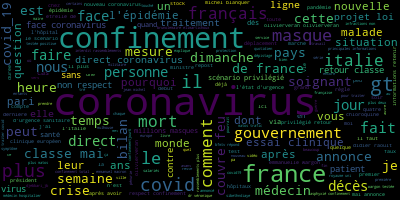
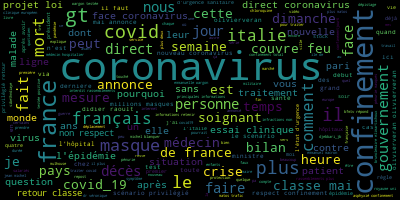
mots du jour

diff --git a/Wordcloud_actu_france_demo.py b/Wordcloud_actu_france_demo.py
@@ -141,10 +141,110 @@ plt.axis("off")
 #plt.show()
 
 # Enfin on sauvagarde l'image Wordcloud :
-wordcloud.to_file('/home/venus/Wordcloud twitter/mots_du_jour.png')
 
-wordcloud.to_file('/home/venus/Git_repo/mots_du_jour.png')
+wordcloud.to_file('/home/venus/Git_repo/GIT/mots_du_jour.png')
 
+#------------------------------------------
+#### INFOS MONDIALES
+import tweepy
+
+
+
+result2 = []
+liste = ["@ItaliaNEWS", "@SABreakingNews", "@Cameroon_Com", "@MoNewsNet", "@haaretzcom", "@STcom", "@XHNews", "@TaiwanNews886", "@VietnamNewsVNS", "@cambodge_info", "@notesfrompoland", "@nordstjernan", "@OslOsethu", "@KyivPost", "@TheCRNews", "@malaysiakini", "@theBAtimes", "@TheLocalGermany", "@DPRK_News", "@9NewsAUS", "@AIT_News", "@newsphilippines", "@CBCNews", "@FranceNews24", "@newsspain", "@mexicond", "@MoscowTimes", "@jakpost", "@IndiaToday", "@HDNER", "@AJEnglish", "@BrazilianReport", "@arabnews", "@BBCNews", "@ReutersUK", "@The_Japan_News", "@USATODAY"]
+for ele in liste:
+    result2.append(api.user_timeline(ele, count = 100))
+
+# Affichage des résultats :
+#for i in result:
+#    for tweet in i:
+#        print(tweet.text)
+    
+
+# Concaténation des résultats de recherche :
+result3=result2#+result2
+
+
+#### Nettoyage des données :
+
+import tweepy as tw
+import warnings
+warnings.filterwarnings("ignore")
+
+# On définie une fonction de nettoyage des données (retrait des url et des caractéres spéciaux) :
+
+def remove_url(txt):
+    """Remplace les url trouvée par le caractère vide " "
+    Parametre
+    ----------
+    txt : string
+        la variable string que l'on soutaite remplacer
+    Sortie
+    -------
+    Le fichier nettoyé des url
+    """
+    return " ".join(re.sub('http\w+:\/\/\S+', '', txt).split())
+
+# On retire les caractères spéciaux et les url de result3 :
+
+tweets_sans_urls = [remove_url(tweet.text)  for i in result3 for tweet in i]
+
+# On crée la liste des mots :
+
+mots_dans_tweets = [tweet.lower().split() for tweet in tweets_sans_urls]
+
+
+# Retrait des mots non pertinents avec nltk :
+
+# Téléchargement NLTK
+#nltk.download('stopwords')
+stop_words = set(stopwords.words('english'))
+
+# Retrait des mots non pertinents :
+liste_stop_words = list(stop_words)
+
+tweet_sans_sw = [[mots for mots in mots_tweet if not mots in liste_stop_words]
+                 for mots_tweet in mots_dans_tweets]
+
+
+
+
+a_retirer = ["germany", "brazil", "russia", "yia", "ukraine", "spain", "vietnam", "day", "news", "italia", "china", "italy", "world", "us", "de"]#+ liste_stop_words
+
+# On réutilise une double listes pour retirer les mots non pertinents:
+
+tweet_avec_mots_bannnis = [[mots for mots in mots_tweet if mots  not in a_retirer  ]
+                 for mots_tweet in tweet_sans_sw]
+
+
+#### WordCloud : Création de l'image finale :
+
+#Premiere maniere avec une phrase :
+a=""
+for mots in tweet_avec_mots_bannnis:
+  a=a+" ".join(mots)
+#On classifie en fonction de leurs importance les mots de tweet_avec_mots_bannnis.txt avec Wordcloud
+wordcloud = WordCloud(max_font_size=40).generate(a)
+
+#Deuxieme maniere on crée un fichier txt :
+#on importe les mots de tweet_sans_sw dans le txt
+#f = open("tweet_avec_mots_bannnis.txt", "w")
+#for mots in tweet_avec_mots_bannnis:
+#    f.write("\n".join(mots))
+#wordcloud = WordCloud(max_font_size=40).generate(open(path.join(d, 'tweet_avec_mots_bannnis.txt')).read())
+#-----------------------------------------
+
+# On affiche l'image Wordcloud :
+import matplotlib.pyplot as plt
+plt.imshow(wordcloud, interpolation='bilinear')
+plt.axis("off")
+##plt.figure()
+#plt.show()
+
+# Enfin on sauvagarde l'image Wordcloud :
+#wordcloud.to_file('/home/venus/Wordcloud twitter/words_of_the_day.png')
+
+wordcloud.to_file('/home/venus/Git_repo/GIT/words_of_the_day.png')
 
 #### La timeline perso de mon compte :
 
